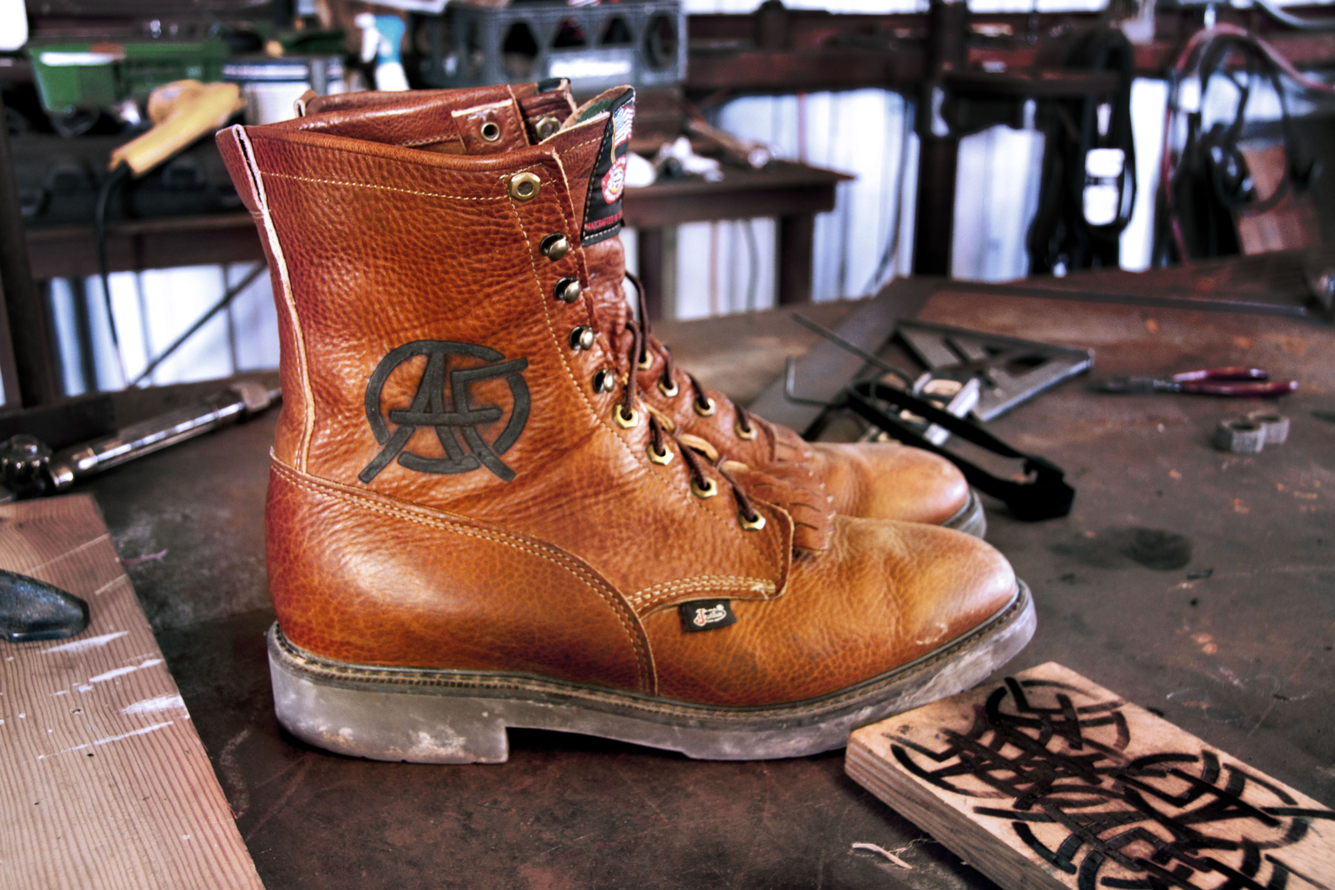
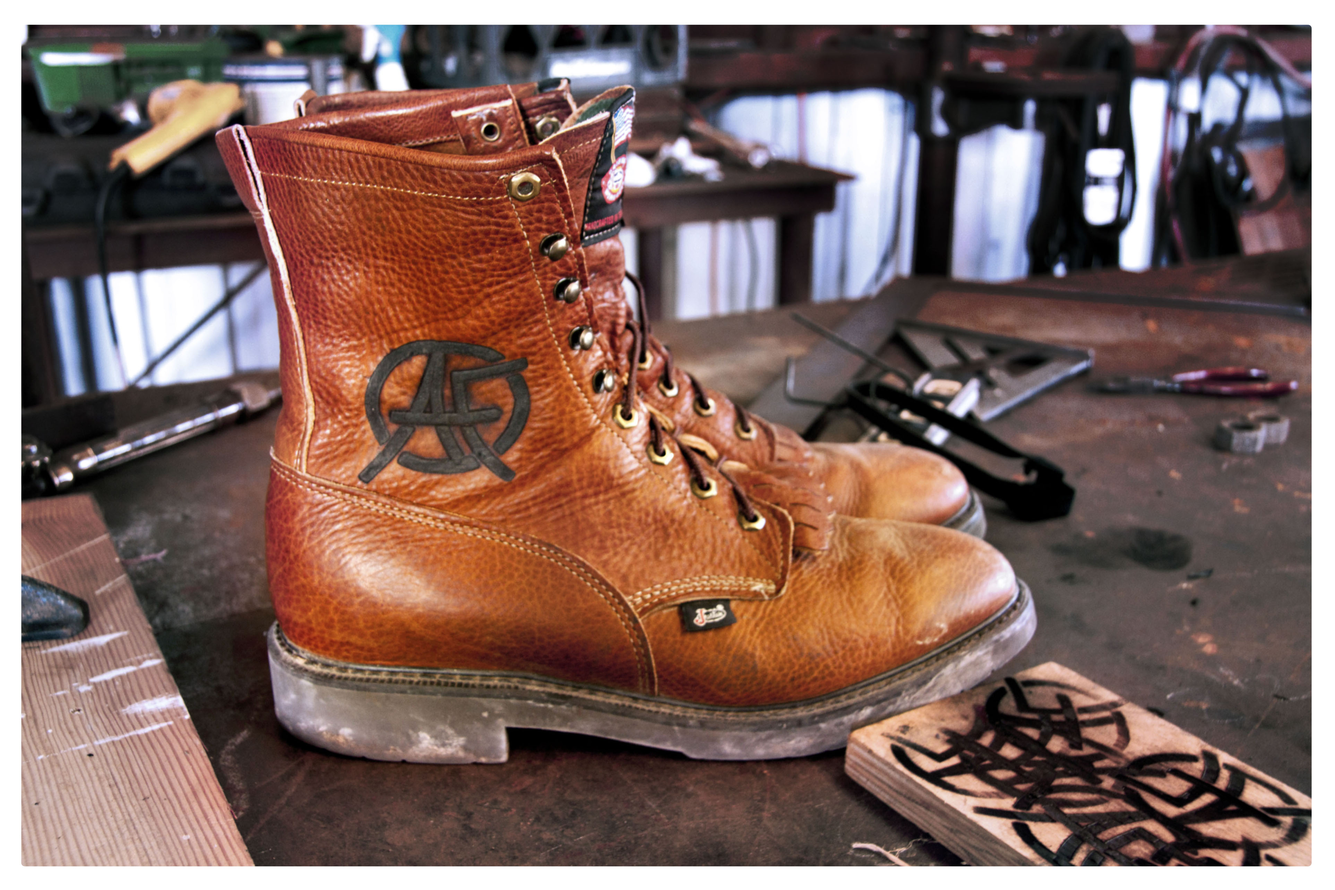
more imgs, updated aschenbeckfarms pg

Changed region(s): [[0.0, 0.0, 1.0, 1.0]]

diff --git a/aschenbeckfarms.html b/aschenbeckfarms.html
@@ -117,7 +117,7 @@
 
                                     <div class="each loadfade">
                                         <div class="pad"><img src=
-                                        "http://r-ny.com/wp-content/uploads/2014/02/rco-whale-lifestyle-iPad-02.jpg"></div>
+                                        "img/AF3.jpg"></div>
                                     </div>
 
                                     <div class="each loadfade">
@@ -129,6 +129,151 @@
                         </div>
                     </div>
                 </article>
+<!-- End of content; footer begins -->
+                <div class="stretch postnav ultralight">
+                    <div class="container">
+                        <div class="inner">
+                            <ul class="clearfix light icon">
+                                <li class="col33 prev L">
+                                    <a href=
+                                    "http://r-ny.com/projects/good-soldier/"
+                                    rel="next">&#60;</a>
+                                </li>
+
+                                <li class="col34 index L">
+                                    <a href="http://r-ny.com/projects/" title=
+                                    "R&amp;Co / Projects">&#x68;</a>
+                                </li>
+
+                                <li class="col33 next L">
+                                    <a href=
+                                    "http://r-ny.com/projects/geordy-pearson/"
+                                    rel="prev">&#62;</a>
+                                </li>
+                            </ul>
+                        </div>
+                    </div>
+                </div>
+
+                <div class="stretch posts related ultralight">
+                    <div class="container">
+                        <div class="inner">
+                            <div class="bumper light clearfix">
+                                <div class="post L col25 bez" id="post-1288">
+                                    <a href=
+                                    "http://r-ny.com/projects/logos-and-marks/"
+                                    title="Logos &#038; Marks">
+                                    <div class="wrap">
+                                        <img alt="rco-logos-marks" class=
+                                        "attachment-thumbnail wp-post-image"
+                                        height="438" src=
+                                        "http://r-ny.com/wp-content/uploads/2014/02/rco-logos-marks-700x438.jpg"
+                                        width="700">
+
+                                        <div class="overlay"></div>
+                                    </div></a>
+                                </div>
+
+                                <div class="post L col25 bez" id="post-1224">
+                                    <a href=
+                                    "http://r-ny.com/projects/belief-nyc/"
+                                    title="Belief NYC">
+                                    <div class="wrap">
+                                        <img alt="rco-belief-thumb" class=
+                                        "attachment-thumbnail wp-post-image"
+                                        height="438" src=
+                                        "http://r-ny.com/wp-content/uploads/2014/02/rco-belief-thumb-700x438.jpg"
+                                        width="700">
+
+                                        <div class="overlay"></div>
+                                    </div></a>
+                                </div>
+
+                                <div class="post L col25 bez" id="post-1233">
+                                    <a href=
+                                    "http://r-ny.com/projects/geordy-pearson/"
+                                    title="Geordy Pearson">
+                                    <div class="wrap">
+                                        <img alt="rco-geordy-pearson-thumb"
+                                        class=
+                                        "attachment-thumbnail wp-post-image"
+                                        height="438" src=
+                                        "http://r-ny.com/wp-content/uploads/2014/02/rco-geordy-pearson-thumb-700x438.jpg"
+                                        width="700">
+
+                                        <div class="overlay"></div>
+                                    </div></a>
+                                </div>
+
+                                <div class="post L col25 bez" id="post-1228">
+                                    <a href=
+                                    "http://r-ny.com/projects/elevn-co/" title=
+                                    "Elevn Co.">
+                                    <div class="wrap">
+                                        <img alt="rco-elevn-co-web-2" class=
+                                        "attachment-thumbnail wp-post-image"
+                                        height="438" src=
+                                        "http://r-ny.com/wp-content/uploads/2014/02/rco-elevn-co-web-2-700x438.jpg"
+                                        width="700">
+
+                                        <div class="overlay"></div>
+                                    </div></a>
+                                </div>
+                            </div>
+                        </div>
+                    </div>
+                </div>
+            </div>
+        </section>
+
+        <div class="push"></div>
+    </div>
+
+    <footer>
+        <div class="stretch footer white">
+            <div class="container bez">
+                <div class="inner">
+                    <div class="legal L col33">
+                        <span>©2014 R&Co. Creative</span>
+                    </div>
+
+                    <div class="social L col66">
+                        <ul class="icon">
+                            <li class="col25 I L">
+                                <a href="http://instagram.com/rspny" target=
+                                "_blank" title="Instagram">&#x69;</a>
+                            </li>
+
+                            <li class="col25 T L">
+                                <a href="http://twitter.com/rspny" target=
+                                "_blank" title="Twitter">&#x74;</a>
+                            </li>
+
+                            <li class="col25 D L">
+                                <a href="http://www.facebook.com/rspny" target=
+                                "_blank" title="Facebook">&#x66;</a>
+                            </li>
+
+                            <li class="col25 top L">
+                                <div class="fauxlink pointer">
+                                    <span>&#x5e;</span>
+                                </div>
+                            </li>
+                        </ul>
+                    </div>
+                </div>
+            </div>
+        </div>
+    </footer><script src=
+    "http://ajax.googleapis.com/ajax/libs/jquery/1/jquery.min.js" type=
+    "text/javascript"></script><script src=
+"http://r-ny.com/wp-content/themes/RCO/Resources/JS/Modernizr.js" type=
+"text/javascript"></script><script>
+/*<![CDATA[*/$(function(){if(Modernizr.touch){$('body').addClass('touch');}else{$('body').addClass('notouch');}
+    $(".go").click(function(){$(".dropmenu").slideToggle('slow');});$('.top').click(function(){$("html, body").animate({scrollTop:0},600);return false;});$(".project.meta h2").click(function(){if($(window).width()<769){$(".project.meta .summary").slideToggle();$(".project.meta h2 span.icon").toggleClass("open");}});$(".each.med.bb").after("<div class='clear'><\/div>");});$(window).load(function(){$('body').addClass('loaded');});(function(i,s,o,g,r,a,m){i['GoogleAnalyticsObject']=r;i[r]=i[r]||function(){(i[r].q=i[r].q||[]).push(arguments)},i[r].l=1*new Date();a=s.createElement(o),m=s.getElementsByTagName(o)[0];a.async=1;a.src=g;m.parentNode.insertBefore(a,m)})(window,document,'script','//www.google-analytics.com/analytics.js','ga');ga('create','UA-44615899-1','r-ny.com');ga('send','pageview');/*]]>*/
+    </script>
+</body>
+</html>
 
 
 
@@ -139,7 +284,3 @@
 
 
 
-
-
-
-  </body>

diff --git a/index_1.html b/index_1.html
@@ -131,7 +131,7 @@
                                     "aschenbeckfarms.html"
                                     title="Aschenbeck Farms">
                                     <div class="wrap medium-12 columns">
-                                        <img alt="img/AF1.jpg"
+                                        <img alt="img/AF1_noborder.jpg"
                                         width="769 px" height="485 px"
                                          src="img/AF1.jpg"
                                         >
